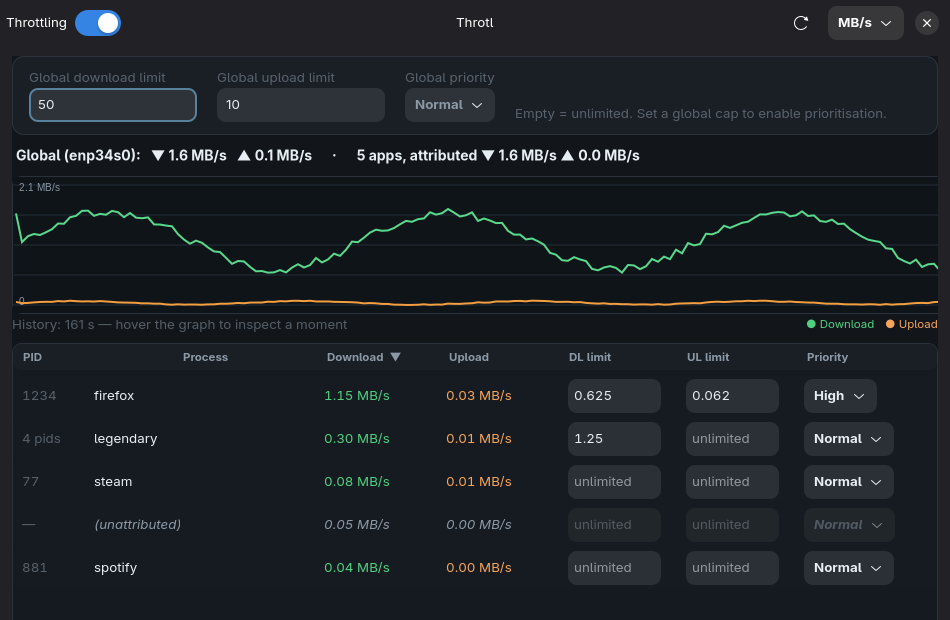
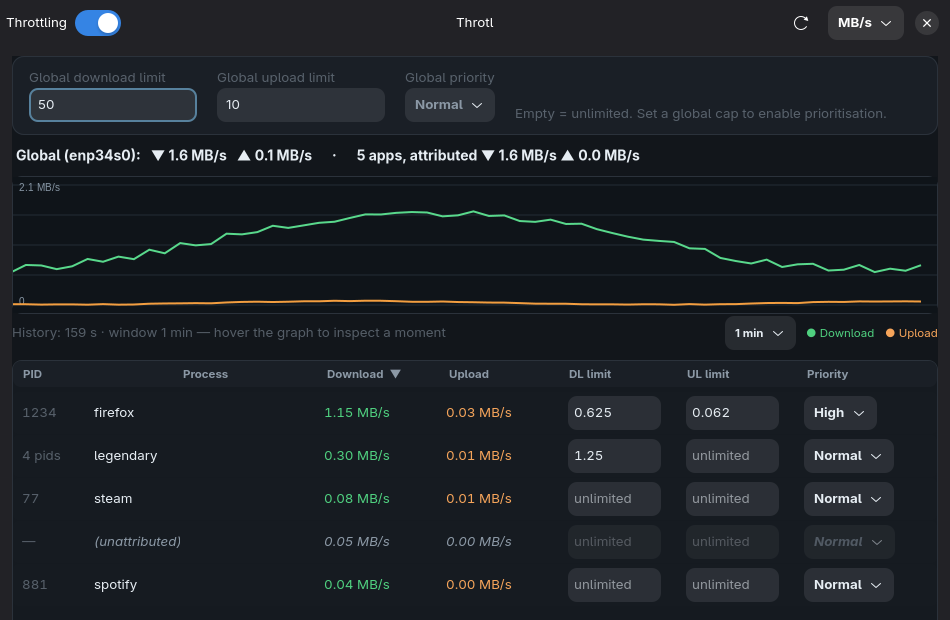
GUI graph: time-based auto-scroll with selectable window
The graph now plots on a real time axis and auto-scrolls to the live edge,
showing only the last 60 s by default instead of the whole history. A small
dropdown switches the visible window between 30 s / 1 min / 5 min / 15 min /
All; scrolling back pauses auto-scroll and returning to the right edge resumes
it. The readout shows the total history span and the selected window.

Also refreshes docs/screenshot.png to the new layout and adds graph tests.

diff --git a/throtl/gui/style.css b/throtl/gui/style.css
@@ -132,6 +132,15 @@
     margin-left: 4px;
 }
 
+.throtl-window {
+    font-size: 0.86em;
+    min-height: 24px;
+}
+
+.graph-scroll {
+    background: transparent;
+}
+
 /* --- Empty state ----------------------------------------------------- */
 
 .empty-title {

diff --git a/throtl/gui/graph.py b/throtl/gui/graph.py
@@ -1,56 +1,87 @@
-"""Live bandwidth graph: scrollable history + hover readout (Cairo / GtkDrawingArea).
+"""Live bandwidth graph: time-based, auto-scrolling history + hover readout.
 
-The graph keeps up to ``max_samples`` samples (1 per poll). Samples are drawn
-``PX_PER_SAMPLE`` pixels apart, and the drawing area lives in a horizontal
-ScrolledWindow — so you can scroll back through history. New samples keep the
-view pinned to the right edge until you scroll away from it.
+The graph shows a configurable time window (default: the last 60 seconds) and
+scrolls automatically as new samples arrive, so you always see the most recent
+traffic. Scrolling back through the history pauses auto-scroll; scrolling back
+to the right edge resumes it. A small dropdown switches the window between
+30 s / 1 min / 5 min / 15 min / All (fit the whole history).
+
+The x axis is real time (epoch seconds), so irregular poll intervals show up as
+gaps instead of being squashed together.
 
 Hovering with the mouse shows the exact values at that point in time (marker
 line + readout text below the graph).
 """
 
+import bisect
 import time as _time
 
 import gi
 
 gi.require_version("Gtk", "4.0")
 
-from gi.repository import Gtk
+from gi.repository import Gio, Gtk
 
 from ..units import format_rate
 
-PX_PER_SAMPLE = 6
 GRAPH_HEIGHT = 132
+PAD = 16.0            # horizontal padding inside the canvas
+MIN_CANVAS = 320.0
+
+# (label, seconds); 0 = fit the entire history into the viewport
+WINDOW_CHOICES = (
+    ("30 s", 30),
+    ("1 min", 60),
+    ("5 min", 300),
+    ("15 min", 900),
+    ("All", 0),
+)
 
 
 class BandwidthGraph(Gtk.Box):
-    """Bandwidth over time with scrolling and a hover readout."""
+    """Bandwidth over time with auto-scrolling and a hover readout."""
 
-    def __init__(self, max_samples: int = 900, unit: str = "mBs"):
+    def __init__(self, max_samples: int = 900, unit: str = "mBs",
+                 window_seconds: int = 60):
         super().__init__(orientation=Gtk.Orientation.VERTICAL, spacing=2)
         self._max_samples = max_samples
         self._samples = []          # (t_epoch, down_kbit, up_kbit)
+        self._times = []            # cached timestamps, for bisect()
         self._unit = unit
+        self._window_seconds = window_seconds
+        self._pps = 1.0             # pixels per second
         self._hover = None
         self._autoscroll = True
         self._baseline = 1000.0     # kbit/s, smooths the auto Y-scale
 
         self._area = Gtk.DrawingArea()
-        self._area.set_size_request(320, GRAPH_HEIGHT)
+        self._area.set_size_request(int(MIN_CANVAS), GRAPH_HEIGHT)
         self._area.set_draw_func(self._draw, None)
         self._area.add_css_class("throtl-graph")
 
         self._scroll = Gtk.ScrolledWindow()
+        self._scroll.add_css_class("graph-scroll")
         self._scroll.set_policy(Gtk.PolicyType.AUTOMATIC, Gtk.PolicyType.NEVER)
         self._scroll.set_child(self._area)
         self._scroll.set_size_request(-1, GRAPH_HEIGHT + 6)
         self._scroll.set_vexpand(False)
         self.append(self._scroll)
 
+        # --- bottom row: readout | window selector | legend ---
+        bottom = Gtk.Box(orientation=Gtk.Orientation.HORIZONTAL, spacing=10)
         self._readout = Gtk.Label(label="", xalign=0.0, hexpand=True)
         self._readout.add_css_class("dim-label")
-        bottom = Gtk.Box(orientation=Gtk.Orientation.HORIZONTAL, spacing=10)
         bottom.append(self._readout)
+
+        self._window_dd = Gtk.DropDown(model=Gio.ListStore.new(Gtk.StringObject))
+        for label, _seconds in WINDOW_CHOICES:
+            self._window_dd.get_model().append(Gtk.StringObject.new(label))
+        self._window_dd.set_selected(self._window_index(window_seconds))
+        self._window_dd.set_tooltip_text("Visible time window")
+        self._window_dd.add_css_class("throtl-window")
+        self._window_dd.connect("notify::selected", self._on_window_changed)
+        bottom.append(self._window_dd)
+
         legend = Gtk.Box(orientation=Gtk.Orientation.HORIZONTAL, spacing=10)
         legend_down = Gtk.Label(label="● Download")
         legend_down.add_css_class("legend-down")
@@ -63,6 +94,11 @@ class BandwidthGraph(Gtk.Box):
 
         self._hadj = self._scroll.get_hadjustment()
         self._hadj.connect("value-changed", self._on_scrolled)
+        # Sobald das Adjustment sich aendert (Canvas-Breite), ist upper aktuell
+        # -> dann ans Ende springen, solange Auto-Scroll aktiv ist.
+        self._hadj.connect("changed", self._on_adjustment_changed)
+        # Viewport-Groesse (Fenster-Resize) -> Skala/Canvas neu berechnen.
+        self._hadj.connect("notify::page-size", lambda *_a: self._recompute())
 
         motion = Gtk.EventControllerMotion()
         motion.connect("motion", self._on_motion)
@@ -79,9 +115,11 @@ class BandwidthGraph(Gtk.Box):
     def push(self, down_kbit: float, up_kbit: float, now: float | None = None) -> None:
         t = _time.time() if now is None else now
         self._samples.append((t, max(0.0, down_kbit), max(0.0, up_kbit)))
+        self._times.append(t)
         if len(self._samples) > self._max_samples:
             del self._samples[: len(self._samples) - self._max_samples]
-        self._resize_area()
+            self._times = [sample[0] for sample in self._samples]
+        self._recompute()
         if self._autoscroll:
             self._scroll_to_end()
         self._update_readout()
@@ -89,15 +127,45 @@ class BandwidthGraph(Gtk.Box):
 
     def clear(self) -> None:
         self._samples.clear()
+        self._times.clear()
         self._hover = None
         self._update_readout()
         self._area.queue_draw()
 
-    # --- Scrolling --------------------------------------------------------
+    # --- Scaling / layout -------------------------------------------------
 
-    def _resize_area(self) -> None:
-        visible = max(320, self._scroll.get_width())
-        wanted = max(visible, len(self._samples) * PX_PER_SAMPLE)
+    @staticmethod
+    def _window_index(seconds: int) -> int:
+        for index, (_label, value) in enumerate(WINDOW_CHOICES):
+            if value == seconds:
+                return index
+        return 1  # 1 min
+
+    def _window_label(self) -> str:
+        return WINDOW_CHOICES[self._window_index(self._window_seconds)][0]
+
+    def _viewport_width(self) -> float:
+        page = self._hadj.get_page_size()
+        if page <= 0:
+            page = self._scroll.get_width()
+        return max(MIN_CANVAS, float(page))
+
+    def _time_span(self) -> float:
+        if len(self._times) < 2:
+            return 0.0
+        return max(0.0, self._times[-1] - self._times[0])
+
+    def _recompute(self) -> None:
+        """Pixel-pro-Sekunde + Canvas-Breite an Fenster/Viewport anpassen."""
+        viewport = self._viewport_width()
+        span = self._time_span()
+        if self._window_seconds <= 0:
+            # Ganze Historie in den Viewport einpassen (kein Scrollen).
+            self._pps = (viewport - 2 * PAD) / max(span, 1e-6)
+            wanted = int(viewport)
+        else:
+            self._pps = max(0.05, viewport / float(self._window_seconds))
+            wanted = int(max(viewport, span * self._pps + 2 * PAD))
         if wanted != self._area.get_width():
             self._area.set_size_request(wanted, GRAPH_HEIGHT)
 
@@ -106,26 +174,47 @@ class BandwidthGraph(Gtk.Box):
         page = self._hadj.get_page_size()
         self._hadj.set_value(max(0.0, upper - page))
 
+    def _on_adjustment_changed(self, *_args):
+        if self._autoscroll:
+            self._scroll_to_end()
+
     def _on_scrolled(self, hadj, *_args):
         upper = hadj.get_upper()
         page = hadj.get_page_size()
         at_end = hadj.get_value() >= (upper - page - 2.0)
         self._autoscroll = at_end
-        # Beim Scrollen die Auslese aktualisieren (Position bleibt gleich x)
         self._update_readout()
+
+    def _on_window_changed(self, dd, *_args):
+        index = dd.get_selected()
+        if 0 <= index < len(WINDOW_CHOICES):
+            self._window_seconds = WINDOW_CHOICES[index][1]
+        # Fensterwechsel: immer wieder ans aktuelle Ende springen.
+        self._autoscroll = True
+        self._recompute()
+        self._scroll_to_end()
+        self._update_readout()
+        self._area.queue_draw()
 
     # --- Hover ------------------------------------------------------------
 
     def _index_at(self, x: float):
         if not self._samples:
             return None
-        idx = int(x // PX_PER_SAMPLE)
-        return max(0, min(len(self._samples) - 1, idx))
+        width = float(self._area.get_width())
+        t_end = self._times[-1]
+        t = t_end - (width - PAD - x) / max(self._pps, 1e-6)
+        index = bisect.bisect_left(self._times, t)
+        if index >= len(self._samples):
+            index = len(self._samples) - 1
+        elif index > 0 and abs(self._times[index - 1] - t) <= abs(self._times[index] - t):
+            index -= 1
+        return max(0, min(len(self._samples) - 1, index))
 
     def _on_motion(self, _controller, x, _y):
-        idx = self._index_at(x)
-        if idx != self._hover:
-            self._hover = idx
+        index = self._index_at(x)
+        if index != self._hover:
+            self._hover = index
             self._update_readout()
             self._area.queue_draw()
 
@@ -137,8 +226,10 @@ class BandwidthGraph(Gtk.Box):
 
     def _update_readout(self) -> None:
         if self._hover is None or self._hover >= len(self._samples):
+            window = "all" if self._window_seconds <= 0 else self._window_label()
             self._readout.set_text(
-                f"History: {len(self._samples)} s — hover the graph to inspect a moment")
+                f"History: {self._time_span():.0f} s · window {window}"
+                " — hover the graph to inspect a moment")
             return
         t, down, up = self._samples[self._hover]
         stamp = _time.strftime("%H:%M:%S", _time.localtime(t))
@@ -157,10 +248,12 @@ class BandwidthGraph(Gtk.Box):
             self._draw_centered_text(cr, width, height, "Waiting for traffic…")
             return
 
-        y_max = self._y_scale()
+        t_end = self._times[-1]
 
         def x_of(index: int) -> float:
-            return index * PX_PER_SAMPLE + PX_PER_SAMPLE / 2.0
+            return width - PAD - (t_end - self._times[index]) * self._pps
+
+        y_max = self._y_scale()
 
         def y_of(rate: float) -> float:
             frac = min(1.0, max(0.0, rate / y_max)) if y_max > 0 else 0.0

diff --git a/tests/test_gui.py b/tests/test_gui.py
@@ -321,5 +321,53 @@ class ProcessTableGroupedTest(unittest.TestCase):
         self.assertEqual(params["download_limit"], 1234)
 
 
+@unittest.skipUnless(_display_available(), "kein GTK-Display verfuegbar")
+class BandwidthGraphTest(unittest.TestCase):
+    """Auto-Scroll, Zeitfenster-Auswahl und Zeit-Achse des Graphen."""
+
+    @staticmethod
+    def _adjustment(upper, page, value):
+        class _Adj:
+            def get_upper(self): return upper
+            def get_page_size(self): return page
+            def get_value(self): return value
+        return _Adj()
+
+    def test_window_choices_map_to_seconds(self):
+        from throtl.gui.graph import WINDOW_CHOICES, BandwidthGraph
+
+        self.assertEqual(WINDOW_CHOICES[BandwidthGraph._window_index(0)][0], "All")
+        self.assertEqual(BandwidthGraph._window_index(60), 1)
+        self.assertEqual(BandwidthGraph._window_index(30), 0)
+
+    def test_push_keeps_time_span_and_autoscroll_toggle(self):
+        from throtl.gui.graph import BandwidthGraph
+
+        g = BandwidthGraph(window_seconds=60)
+        for i in range(90):
+            g.push(1000.0, 100.0, now=1000.0 + i)
+        self.assertEqual(g._time_span(), 89.0)
+
+        g._autoscroll = True
+        g._on_scrolled(self._adjustment(2000, 500, 1500))   # am Ende
+        self.assertTrue(g._autoscroll)
+        g._on_scrolled(self._adjustment(2000, 500, 0))      # zurueckgescrollt
+        self.assertFalse(g._autoscroll)
+        g._on_scrolled(self._adjustment(2000, 500, 1500))   # wieder am Ende
+        self.assertTrue(g._autoscroll)
+
+    def test_hover_index_uses_timestamps(self):
+        from throtl.gui.graph import BandwidthGraph
+
+        g = BandwidthGraph(window_seconds=60)
+        for i in range(60):
+            g.push(1000.0, 100.0, now=1000.0 + i)
+        # ohne Allocation ist die Breite 0; Mitte der Samples muss trotzdem
+        # ein gueltiger Index in der Naehe der Mitte sein
+        index = g._index_at(0.0)
+        self.assertIsNotNone(index)
+        self.assertTrue(0 <= index < len(g._samples))
+
+
 if __name__ == "__main__":
     unittest.main()

diff --git a/CHANGELOG.md b/CHANGELOG.md
@@ -44,6 +44,10 @@ and this project adheres to [Semantic Versioning](https://semver.org/spec/v2.0.0
 - GUI styling overhaul: an explicit dark palette (readable regardless of the
   host theme), colour-coded download/upload rates, a framed table body, a
   status bar with an error state and a proper empty state with icon.
+- Bandwidth graph now uses a real time axis and auto-scrolls: it shows only the
+  last 60 s by default (switchable to 30 s / 1 min / 5 min / 15 min / All) while
+  keeping the full history scrollable. Scrolling back pauses auto-scroll until
+  you return to the live edge.
 
 [Unreleased]: https://github.com/Flenser42/throtl/compare/v0.1.0...HEAD
 [0.1.0]: https://github.com/Flenser42/throtl/releases/tag/v0.1.0
